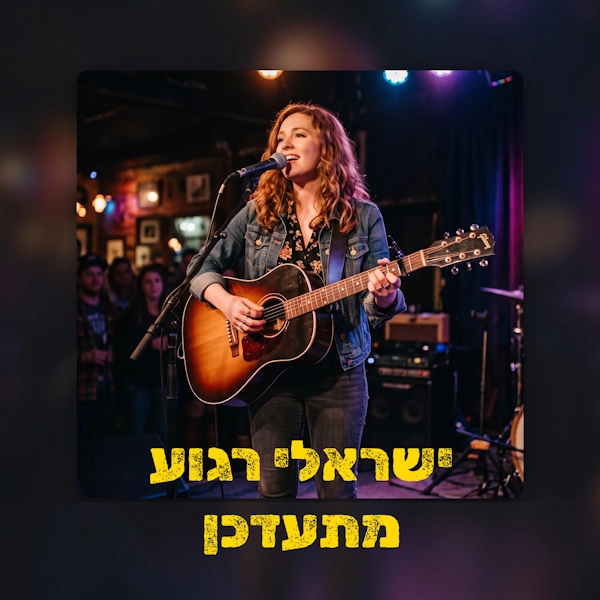
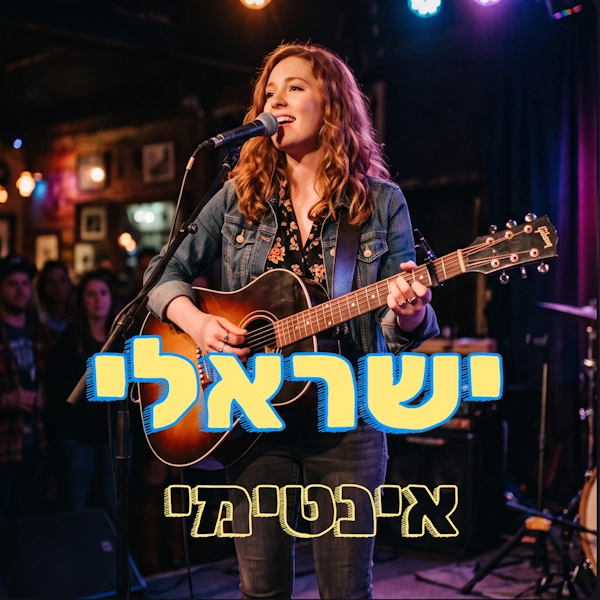
PL

diff --git a/playlists.html b/playlists.html
@@ -113,7 +113,7 @@
         name: "אינדי",
         url: "https://open.spotify.com/playlist/0qYgjCnqOmG1WyJ3nZf841",
         image: "Media/playlist/Indie.webp",
-        description: "ישראלי רגוע מהזמן האחרון",
+        description: "ישראלי אינטימי רגוע",
       },
       {
         name: "ישראלי/לועזי - הכי מושמעים ברדיו",
